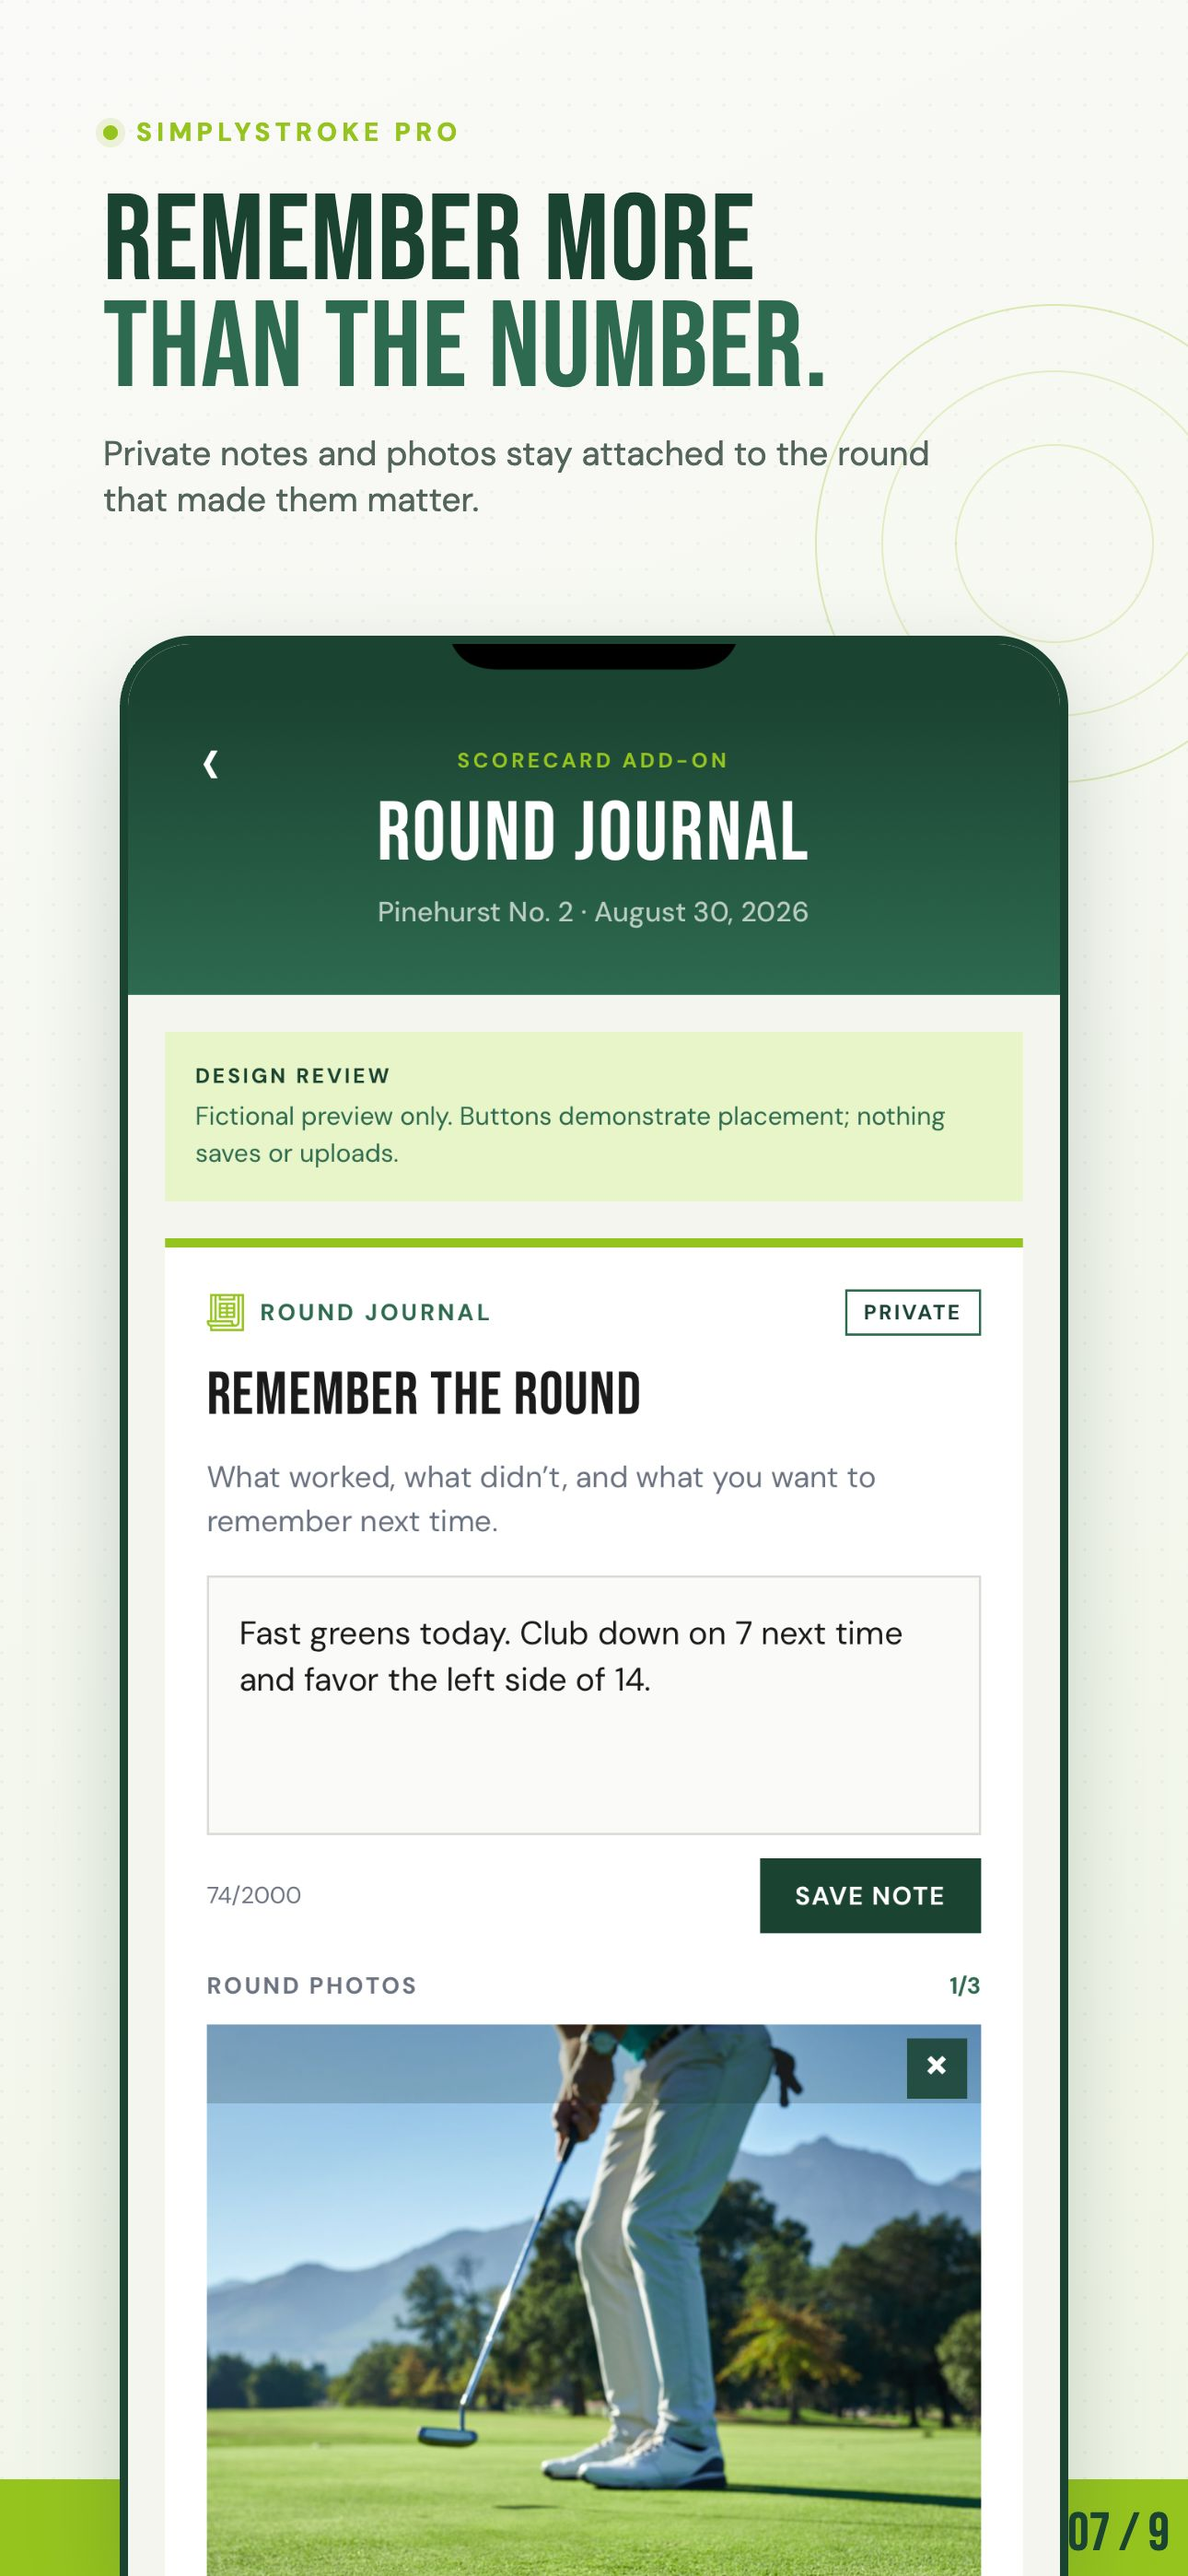
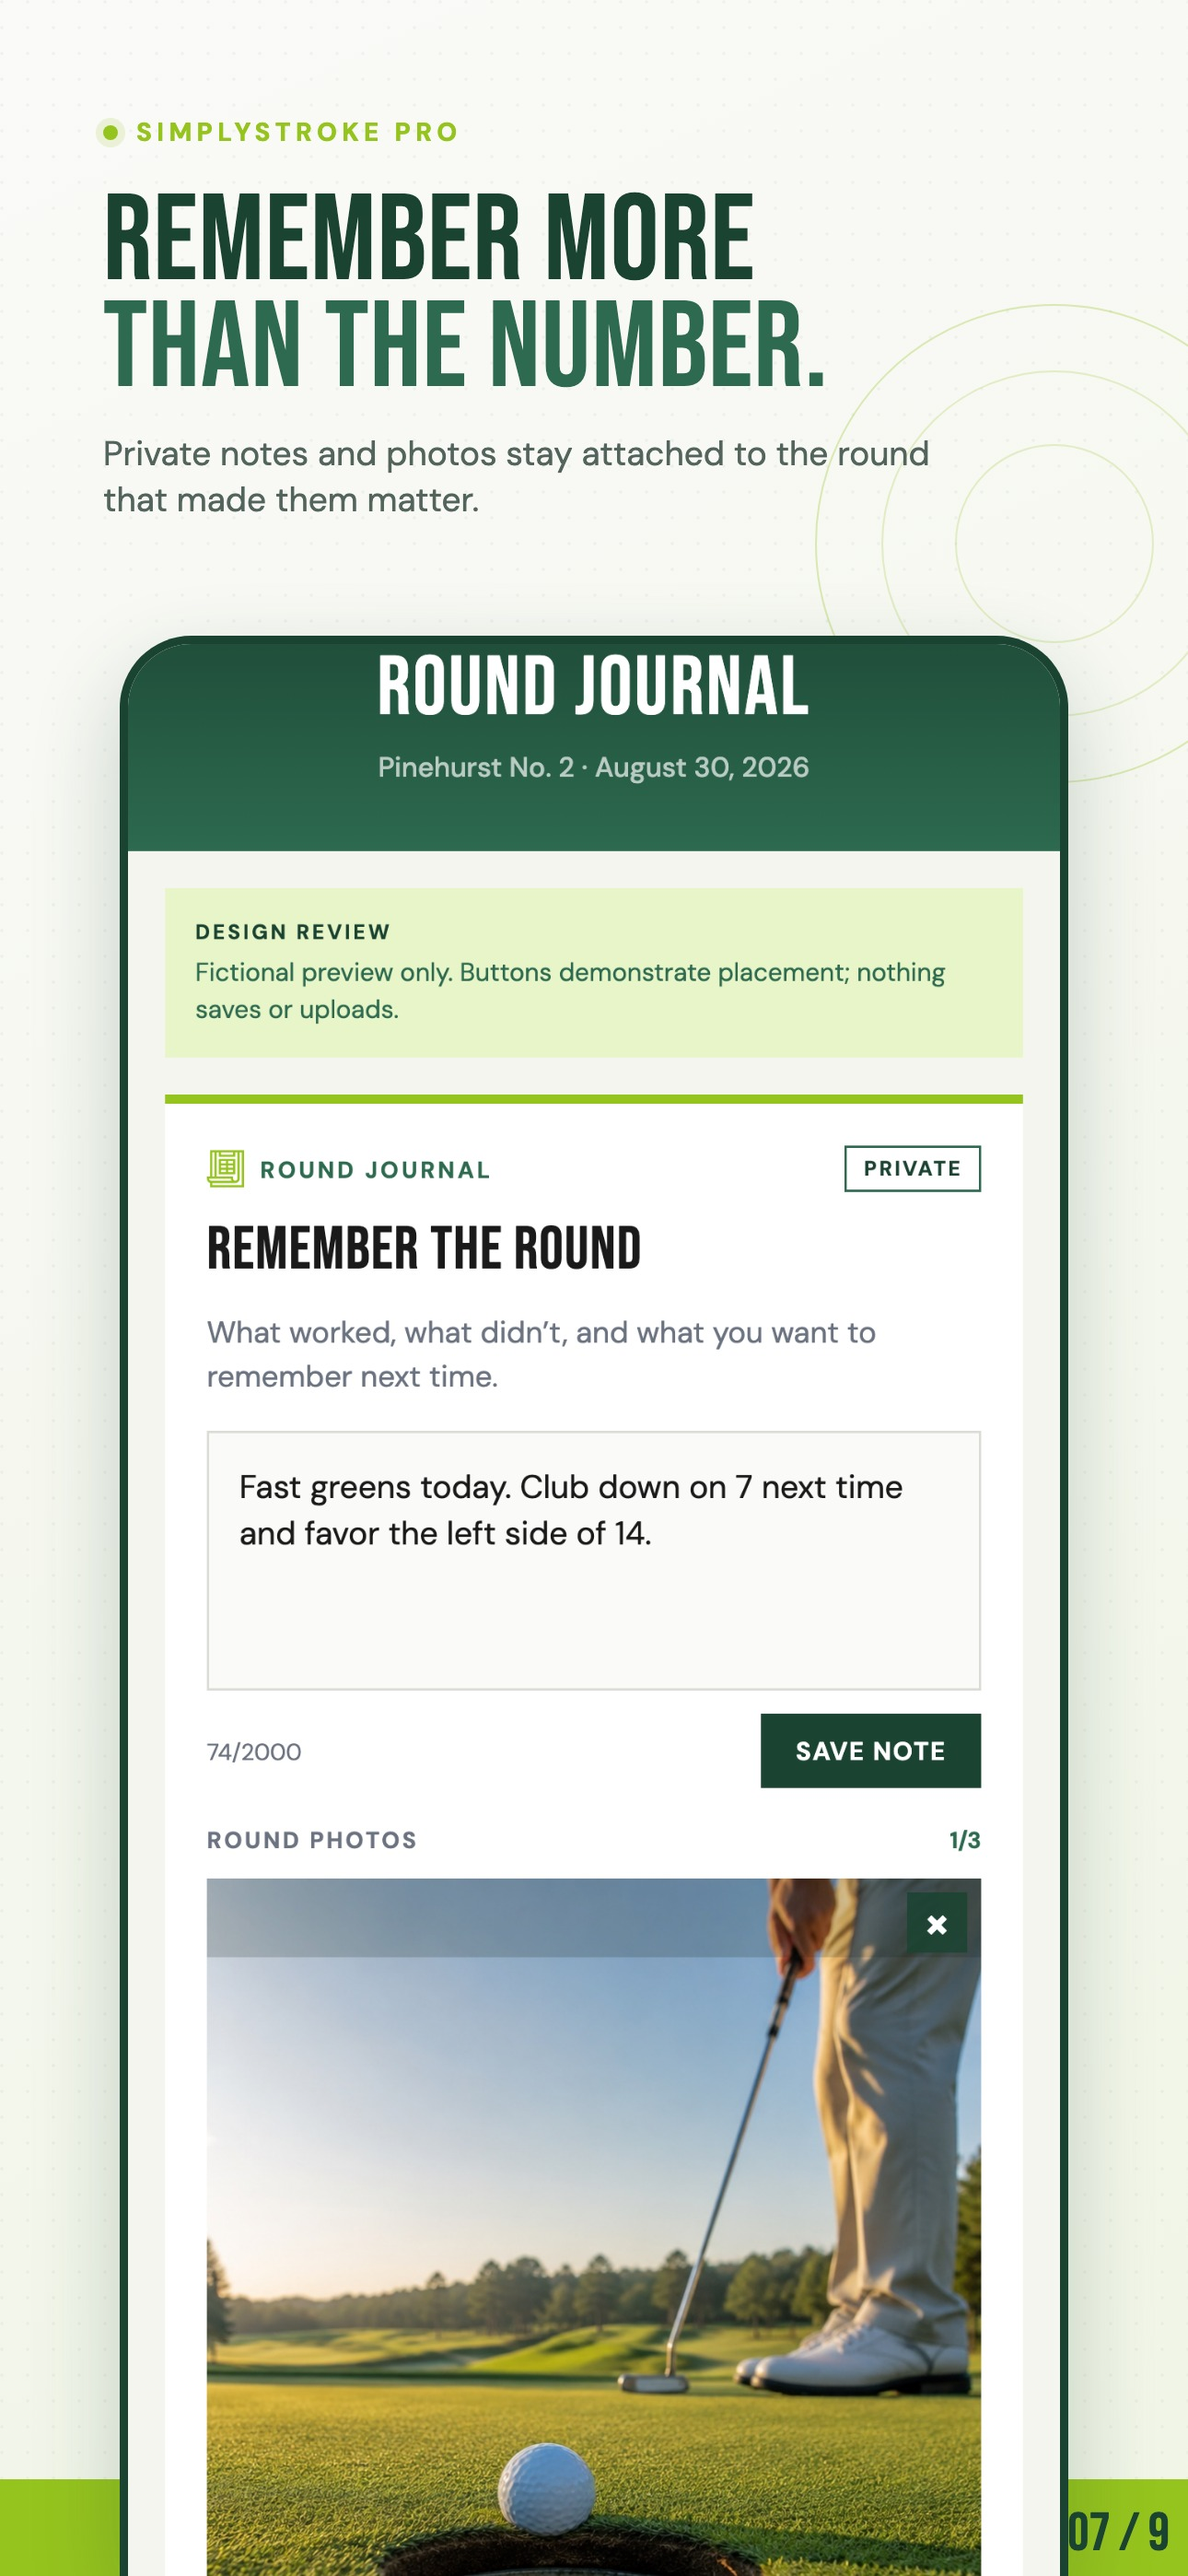
Refresh journal App Store artwork

diff --git a/assets/app-store/1.0.4/source/index.html b/assets/app-store/1.0.4/source/index.html
@@ -110,7 +110,7 @@ document.getElementById('root').innerHTML = `
       <h1>${s.title}</h1>
       <p class="sub">${s.sub}</p>
     </header>
-    ${s.watch ? `<div class="watchStage"><div class="watchFrame"><img src="${s.image}?v=20260903b" alt=""></div><p class="watchNote">Scoring remains free. Pro adds optional club selection and dictated text after the stroke is already safe.</p></div>` : `<div class="screenWrap ${s.crop || ''}"><img class="screen" src="${s.image}?v=20260903b" alt=""></div>`}
+    ${s.watch ? `<div class="watchStage"><div class="watchFrame"><img src="${s.image}?v=20260904" alt=""></div><p class="watchNote">Scoring remains free. Pro adds optional club selection and dictated text after the stroke is already safe.</p></div>` : `<div class="screenWrap ${s.crop || ''}"><img class="screen" src="${s.image}?v=20260904" alt=""></div>`}
     <div class="limeBand"></div><div class="number">${s.number} / 9</div>
   </main>`;
 </script>

diff --git a/assets/app-store/1.0.4/README.md b/assets/app-store/1.0.4/README.md
@@ -2,9 +2,11 @@
 
 Status: **pre-release draft; do not upload yet.**
 
-These nine 1290 × 2796 JPEGs use an accepted Apple 6.9-inch iPhone screenshot size. They contain no alpha channel. Images 01 and 07 were refreshed from the exact PR #80 simulator stack at candidate d417bc2; image 09 was captured from its d55bd17 ancestor and is unchanged by the later journal-fixture-only commit. Images 03–06 and 08 use real 1.0.4 review components captured from candidate a6553ee8cffce832e501289276551ec25c760910; image 02 uses the user-invoked Watch UI at native candidate 6998ca8635bd852025a8ac81e32ff6d5ca4c812a. The journal, season, crews, trips, and OCR data are fictional, write-free review fixtures.
+These nine 1290 × 2796 JPEGs use an accepted Apple 6.9-inch iPhone screenshot size. They contain no alpha channel. Image 07 was refreshed from the exact PR #80 simulator stack at candidate `deebc63d7cf73f757f4add5dcab316d11c5084ad`. Image 01 was captured from its `d417bc2` ancestor and is unchanged by the generated-asset-only commit. Image 09 was captured from its `d55bd17` ancestor and is likewise UI-identical at the current candidate. Images 03–06 and 08 use real 1.0.4 review components captured from candidate `a6553ee8cffce832e501289276551ec25c760910`; image 02 uses the user-invoked Watch UI at native candidate `6998ca8635bd852025a8ac81e32ff6d5ca4c812a`. The journal, season, crews, trips, and OCR data are fictional, write-free review fixtures.
 
 The `watch/` directory contains three 416 × 496 RGB JPEGs captured directly from the Series 11 simulator at the same native candidate. This is an accepted Apple Watch screenshot size. The files show scoring, the user-opened More menu, and the full-size club list. They are a separate Watch listing set and are not part of the numbered iPhone sequence. Slide 02 reuses the same current scoring capture, so the iPhone and Watch listings cannot drift to different control layouts.
+
[1 lines of base64/hex data omitted]
 
 Each image is numbered against the nine-image set (`01 / 9` through `09 / 9`). `contact-sheet.jpg` was regenerated from these exact final draft files.
 
